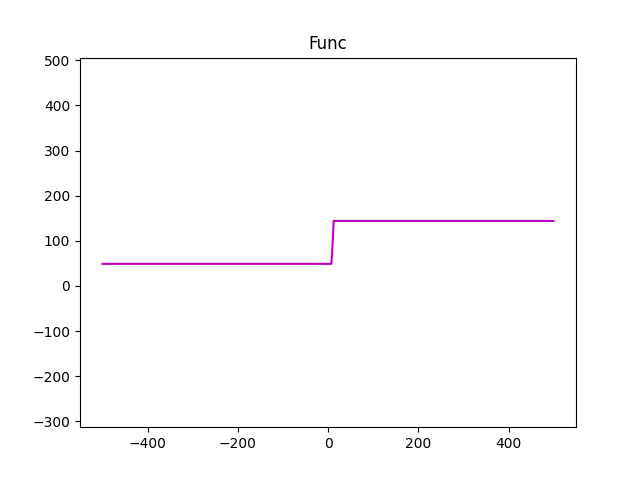
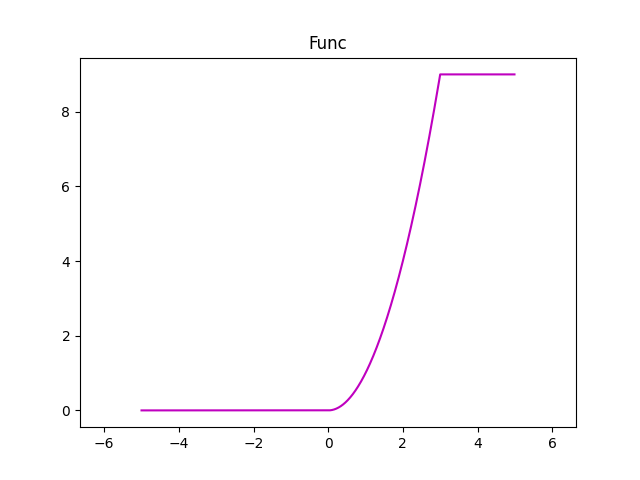
lab 6

diff --git a/lab_6_dop_task2.py b/lab_6_dop_task2.py
@@ -3,15 +3,13 @@ import numpy as np
 
 def ell(e, p):
     f = np.linspace(-np.pi, np.pi, 5000)
-    X = []
-    Y = []
-    for i in f:
-        x = np.cos(p / (1 + e * np.cos(i)))
-        y = np.sin(p / (1 + e * np.cos(i)))
-        X.append(x)
-        Y.append(y)
     
-    plt.plot(X, Y)
+    
+    x = np.cos(p / (1 + e * np.cos(f)))
+    y = np.sin(p / (1 + e * np.cos(f)))
+    
+    
+    plt.plot(x, y)
     plt.savefig('ell.png')
 
 ell(e=0.5, p=10)

diff --git a/lab_6_dop_task3.py b/lab_6_dop_task3.py
@@ -3,7 +3,7 @@ import numpy as np
 
 def func(a, b):
     y = []
-    x = np.arange(-500, 500, 1)
+    x = np.arange(-5, 5, 0.01)
     for i in x:
         if i < a:
             y.append(a**2)
@@ -16,5 +16,5 @@ def func(a, b):
     plt.axis('equal')
     plt.savefig('func.png')
 
-func(a=7, b=12)
+func(a=0, b=3)
         

diff --git a/lab_6_dop_task4.py b/lab_6_dop_task4.py
@@ -14,7 +14,7 @@ def ladder(n):
         y.append(j)
     y.append(n)
 
-    plt.plot(x, y, color='w')
+    plt.plot(x, y, color='b')
     plt.title(f'Лесенка из {n} ступенек')
     plt.axis('equal')
     plt.savefig('ladder.png')
